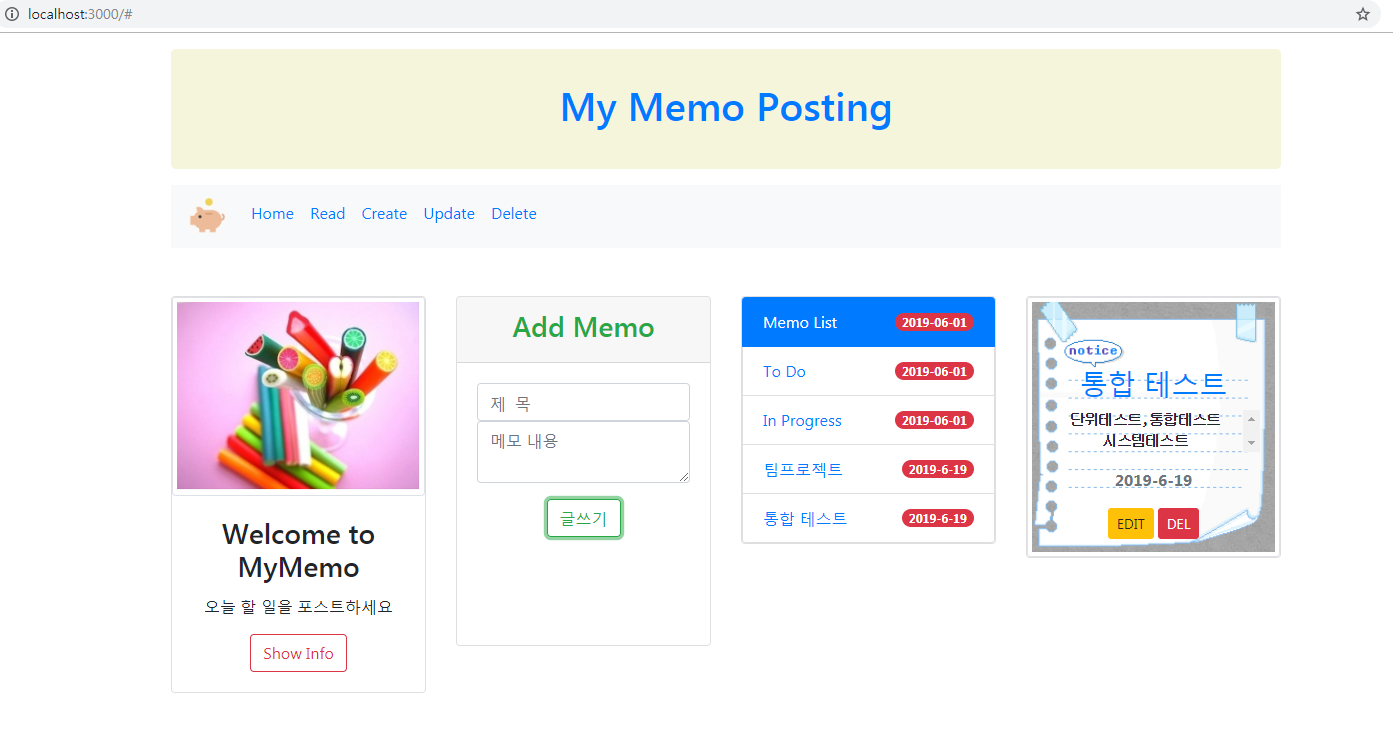
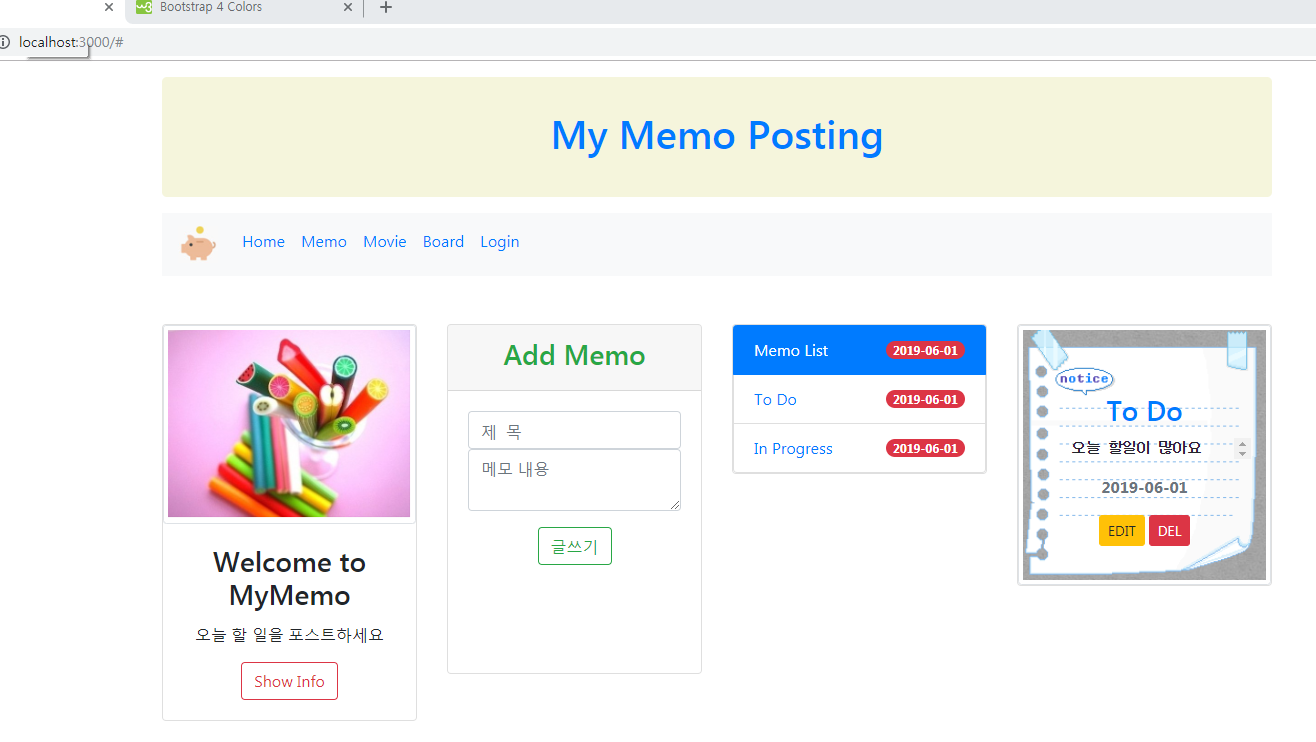
UI 모형 추가

diff --git a/src/components/Navbar.js b/src/components/Navbar.js
@@ -7,20 +7,20 @@ class Navbar extends React.Component{
   <a className="navbar-brand" href="#">
     <img src="pig.PNG" alt="Logo" style={{width:40}}/>
   </a>
-    <li className="nav-item active">
+  <li className="nav-item active">
       <a className="nav-link" href="#">Home</a>
     </li>
     <li className="nav-item">
-      <a className="nav-link" href="#">Read</a>
+      <a className="nav-link" href="#">Memo</a>
     </li>
     <li className="nav-item">
-      <a className="nav-link" href="#">Create</a>
+      <a className="nav-link" href="#">Movie</a>
     </li>
     <li className="nav-item">
-      <a className="nav-link" href="#">Update</a>
+      <a className="nav-link" href="#">Board</a>
     </li>
     <li className="nav-item">
-      <a className="nav-link" href="#">Delete</a>
+      <a className="nav-link" href="#">Login</a>
     </li>
   </ul>
 
